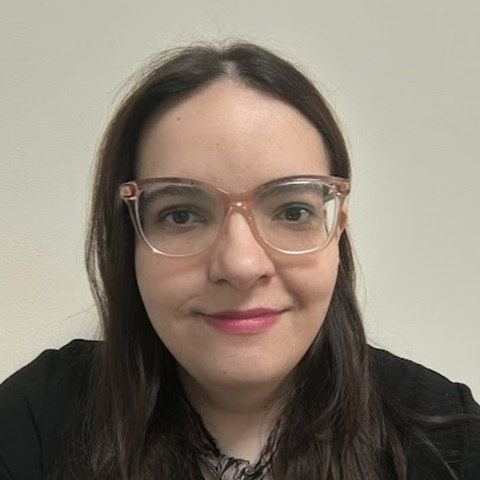
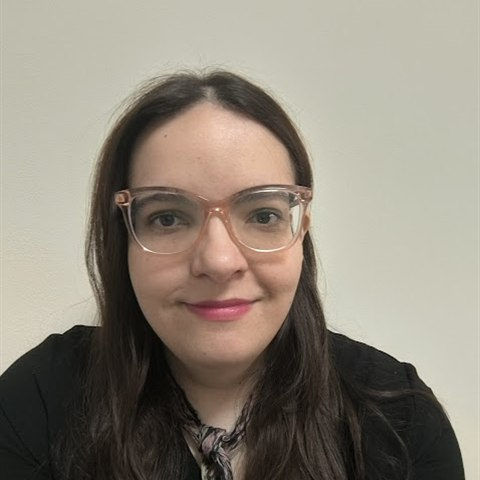
Sobre mí: foto con más aire alrededor y un poco más grande

diff --git a/css/sections/about.css b/css/sections/about.css
@@ -35,7 +35,7 @@ h2 {
     height: auto;
     margin-top: clamp(1.5rem, 3vw, 2.25rem);
     object-fit: cover;
-    width: clamp(6.5rem, 11vw, 10rem);
+    width: clamp(7.5rem, 13vw, 11rem);
 }
 
 .lead {
